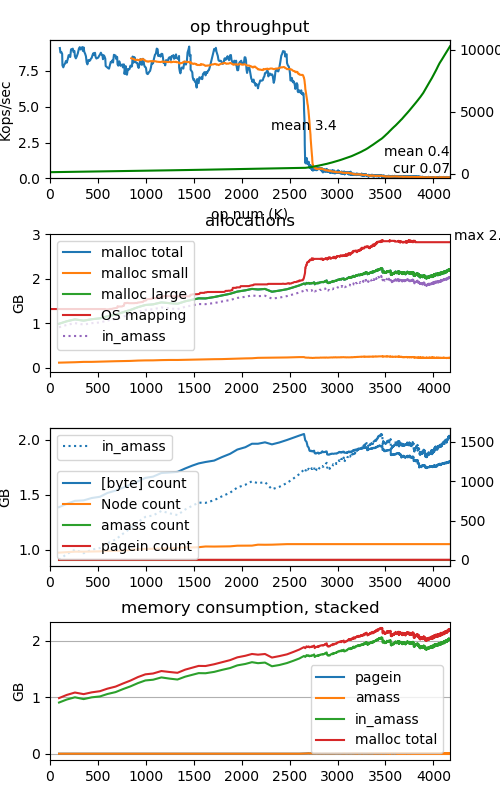
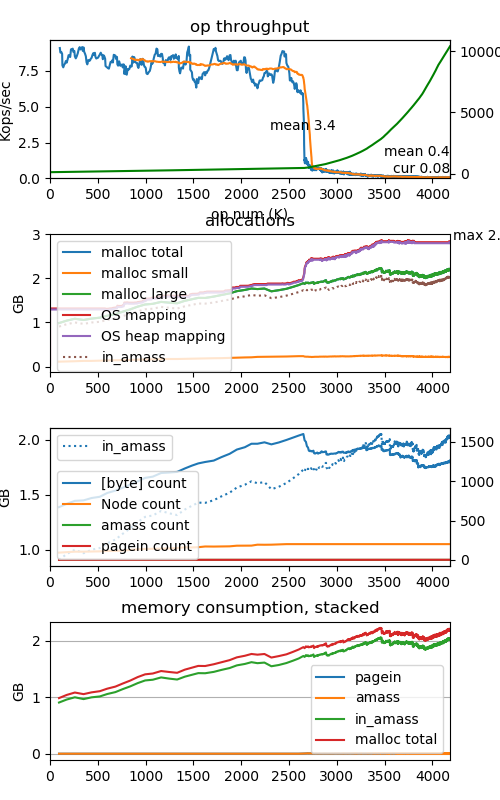
experiment results

diff --git a/malloc-exp/plot-timeseries.py b/malloc-exp/plot-timeseries.py
@@ -40,9 +40,14 @@ def parse(filename):
     microscopes = {}
     first_op_completed_t = None
     ops_completed = {}
+    reads_started = {}
+    reads_completed = {}
+    writes_started = {}
+    writes_completed = {}
     scopes = {}
     kvl_underlying = {}
     kvl_underlying_count = {}
+    accum = {}
     line_num = 0
     for line in open(filename, "r").readlines():
         line_num += 1
@@ -56,6 +61,12 @@ def parse(filename):
             if first_op_completed_t == None:
                 first_op_completed_t = t - 2
             ops_completed[t] = int(fields[4])
+
+        if line.startswith("iostats "):
+            reads_started[t] = int(fields[1])
+            reads_completed[t] = int(fields[3])
+            writes_started[t] = int(fields[5])
+            writes_completed[t] = int(fields[7])
 
         mo = match_arow_line("ma-scope", line)
         if mo:
@@ -76,9 +87,30 @@ def parse(filename):
             kvl_underlying_count[t] = int(fields[3])
             kvl_underlying[t] = int(fields[5])
 
-    numPlots = 4
-    fig, axes = plt.subplots(numPlots, 1, figsize=(5,numPlots*2))
+
+        mo = re.compile("cache: (\d+) (.*)-(bytes|count)").search(line)
+        if mo!=None:
+            value,type,unit = mo.groups()
+            accum_key = "%s-%s" % (type,unit)
+            if accum_key not in accum:
+                accum[accum_key] = {}
+            accum[accum_key][t] = int(value)
+
+    numPlots = 10
+    rows = int((numPlots+1)/2)
+    fig, axes = plt.subplots(rows, 2, figsize=(12,rows*2))
+    axes = axes.transpose().flatten()
     plt.subplots_adjust(left=0.10, right=0.90, hspace=0.4, top=0.95, bottom=0.05);
+
+    class AxisAllocator:
+        def __init__(self):
+            self.nextAxis = 0
+
+        def get(self):
+            ret = self.nextAxis
+            self.nextAxis += 1
+            return axes[ret]
+    axisAllocator = AxisAllocator()
 
     t_end = max(os_map_total.keys())
 
@@ -88,14 +120,17 @@ def parse(filename):
 
     def timeToOp(t):
         try:
-            return ops_completed[t]/Kilo
+            return ops_completed[t]
         except KeyError:
             return 0
 
-    def timesToOp(ts):
-        return [timeToOp(t) for t in ts]
+    def timeToKiloOp(t):
+        return timeToOp(t) / Kilo
 
-    op_end = timeToOp(t_end)
+    def timesToKiloOps(ts):
+        return [timeToKiloOp(t) for t in ts]
+
+    op_end = timeToKiloOp(t_end)
 
     def makePlot(xSource, lam):
         xs = []
@@ -103,11 +138,12 @@ def parse(filename):
         for t in xSource:
             try:
                 y = lam(t)
-                xs.append(t)
-                ys.append(y)
-            except KeyError:
-                pass
-        return timesToOp(xs),ys
+                if y != None:
+                    xs.append(t)
+                    ys.append(y)
+            except KeyError: pass
+            except IndexError: pass
+        return timesToKiloOps(xs),ys
 
 
     def smoothedThroughput(ax, window):
@@ -132,7 +168,7 @@ def parse(filename):
             msg = "mean %.1f" % aggregate
             if label == "end":
                 msg += "\ncur %.2f" % cur
-            ax.text(timeToOp(time), aggregate, msg, horizontalalignment="right")
+            ax.text(timeToKiloOp(time), aggregate, msg, horizontalalignment="right")
         aggregateAt(xs[-1], "end")
         aggregateAt(1000, "1000s")
         
@@ -142,7 +178,7 @@ def parse(filename):
         axtwin.plot(ops,ts, "g")
         axtwin.set_ylabel("time (s)")
 
-    try: plotThroughput(axes[0])
+    try: plotThroughput(axisAllocator.get())
     except: pass
 
     def plotOSvsMalloc(ax):
@@ -155,19 +191,21 @@ def parse(filename):
                 (microscopes["coarse-small"][t].open_byte + microscopes["coarse-large"][t].open_byte)/GB))
             line.set_label("malloc large")
         except:
-            #pass    # sorry, no microscopes
-            raise
+            pass    # sorry, no microscopes
         line, = ax.plot(*makePlot(os_map_total, lambda t: os_map_total[t]/GB))
         line.set_label("OS mapping")
+        line, = ax.plot(*makePlot(os_map_heap, lambda t: os_map_heap[t]/GB))
+        line.set_label("OS heap mapping")
 
         maxX, maxY = max(os_map_total.items(), key=operator.itemgetter(1))
-        ax.text(maxX, maxY/GB, "max %.1fGB" % (maxY/GB), horizontalalignment="right")
+        ax.text(timeToKiloOp(maxX), maxY/GB, "max %.1fGB" % (maxY/GB), horizontalalignment="right")
 
         ax.set_xlim(left = 0, right=op_end)
         ax.legend()
         ax.set_title("allocations")
         ax.set_ylabel("GB")
-    plotOSvsMalloc(axes[1])
+    osVsMallocAxis = axisAllocator.get()
+    plotOSvsMalloc(osVsMallocAxis)
 
     def plotAmass(ax):
         focus_bytearys = scopes["in_amass.[T = unsigned char]"]
@@ -176,7 +214,8 @@ def parse(filename):
         ax.set_ylabel("GB")
         ax.legend()
         ax.set_xlim(left = 0, right=op_end)
-    plotAmass(axes[1])
+    try: plotAmass(osVsMallocAxis)
+    except: pass
 
     def plotNodes(ax):
         a2twin = ax.twinx()
@@ -195,9 +234,10 @@ def parse(filename):
         line.set_label("pagein count")
         a2twin.legend(loc="lower left")
 
-    try: plotAmass(axes[2])
+    amassAxis = axes[2]
+    try: plotAmass(amassAxis)
     except: pass
-    try: plotNodes(axes[2])
+    try: plotNodes(amassAxis)
     except: pass
 
 ##    xs_ratio = [t for t in xs_bytearys if t in xs_nodes]
@@ -220,19 +260,104 @@ def parse(filename):
         for i in range(len(stack)):
             (item,label) = stack[i]
             ys = [(item[xs[i]].open_byte + prev[i]) for i in range(len(xs))]
-            line, = ax.plot(timesToOp(xs), [v/GB for v in ys])
+            line, = ax.plot(timesToKiloOps(xs), [v/GB for v in ys])
             line.set_label(label)
             prev = ys
             #prev = [0 for t in xs]
-        line, = ax.plot(timesToOp(xs), [microscopes["total"][t].open_byte/GB for t in xs])
+        line, = ax.plot(timesToKiloOps(xs), [microscopes["total"][t].open_byte/GB for t in xs])
         line.set_label("malloc total")
         ax.legend()
         ax.set_ylabel("GB")
         ax.set_title("memory consumption, stacked")
         ax.set_xlim(left = 0, right=op_end)
-        ax.grid(axis="y", both=True, b=True)
-    try: plotMemStackChart(axes[3])
+        ax.grid(axis="y", which="both", b=True)
+    try: plotMemStackChart(axisAllocator.get())
     except: pass
+
+    def plotIORate(completed, label, color, ax):
+        window = 20
+        def windowedIO(completed, t):
+            try:
+                op_t = timeToOp(t)
+                op_window = timeToOp(t - window)
+                if op_window >= op_t:
+                    return None
+                #print(t, started[t], completed[t-window], op_t, op_window)
+                return (completed[t] - completed[t-window])/(op_t - op_window)
+            except ZeroDivisionError:
+                return None
+        line, = ax.plot(*makePlot(completed, lambda t: windowedIO(completed, t)), color=color)
+        line.set_label(label)
+        ax.set_title("IOs per operation, %ss window" % window)
+        ax.legend()
+        #ax.set_ylim(top=0.15)
+        
+    ioRateAxis = axisAllocator.get()
+    try:
+        #axtwin = axes[4].twinx()
+        plotIORate(writes_completed, "writes", "b", ioRateAxis)
+        plotIORate(reads_completed, "reads", "r", ioRateAxis)
+    except: raise
+
+    def plotAccum(ax, accum_suite, divisor, ylabel):
+        for categ in accum_suite:
+            line, = ax.plot(*makePlot(accum[categ], lambda t: accum[categ][t]/divisor))
+            line.set_label(categ)
+        ax.set_title("internal accumulator")
+        ax.set_ylabel(ylabel)
+        ax.legend()
+
+    try:
+        plotAccum(axisAllocator.get(), ("tree-nodes-count", "tree-buckets-count", "pkv-buckets-count", "weird-buckets-count"), 1, "count")
+        plotAccum(axisAllocator.get(), ("bucket-message-count", "bucket-key-count", "pivot-key-count"), 1e6, "M")
+        bucketBytesAxis = axisAllocator.get()
+        plotAccum(bucketBytesAxis, ("bucket-message-bytes", "bucket-key-bytes", "pivot-key-bytes"), GB, "GB")
+        last_t = max(accum["bucket-message-bytes"].keys())
+        last_sum = sum([accum[c][last_t] for c in ["bucket-message-bytes", "bucket-key-bytes", "pivot-key-bytes"]])/GB
+        msg = "total: %.1fGB" % last_sum
+        bucketBytesAxis.text(timeToKiloOp(last_t), last_sum, msg, horizontalalignment="right")
+    except: raise
+
+    def plotPivotRate(ax):
+        nodeTimes = list(scopes[".NodeImpl_Compile::Node"].keys())
+        def nodeCountAt(t):
+            idx = bisect.bisect(nodeTimes, t)
+            t = nodeTimes[idx]
+            return scopes[".NodeImpl_Compile::Node"][t]
+        line, = ax.plot(*makePlot(accum["pivot-key-count"], lambda t: (accum["pivot-key-count"][t]+nodeCountAt(t).open_count)/nodeCountAt(t).open_count))
+        line.set_label("buckets/node")
+        ax.set_title("buckets per node")
+        ax.set_ylabel("buckets/node")
+        ax.yaxis.set_major_locator(matplotlib.ticker.MultipleLocator(1.0))
+        ax.yaxis.set_minor_locator(matplotlib.ticker.MultipleLocator(0.5))
+        ax.grid(axis="y", which="both", b=True)
+
+    try: plotPivotRate(axisAllocator.get())
+    except: pass
+
+    def plotMemViews(ax):
+        line, = ax.plot(*makePlot(os_map_total, lambda t: os_map_total[t]/GB))
+        line.set_label("OS mapping")
+
+        line, = ax.plot(*makePlot(microscopes["total"], lambda t: microscopes["total"][t].open_byte/GB))
+        line.set_label("malloc total")
+
+        line, = ax.plot(*makePlot(scopes["in_amass.[T = unsigned char]"], lambda t: scopes["in_amass.[T = unsigned char]"][t].open_byte/GB))
+        line.set_label("malloc in_amass")
+
+        line, = ax.plot(*makePlot(kvl_underlying, lambda t: kvl_underlying[t]/GB))
+        line.set_label("underlying")
+
+        line, = ax.plot(*makePlot(accum["bucket-message-bytes"], lambda t: accum["bucket-message-bytes"][t]/GB))
+        line.set_label("internal-bucket-message-bytes")
+
+        ax.set_title("all memory views in one place")
+        ax.set_ylabel("GB")
+        ax.legend()
+
+    try: plotMemViews(axisAllocator.get())
+    except: pass
+
 
 #    xs = [t for t in kvl_underlying]
 #    ys = [kvl_underlying[t]/GB for t in xs]
@@ -281,6 +406,7 @@ def parse(filename):
 #    axes[4].legend()
 #    axes[4].set_title("overheads")
 
+    plt.tight_layout()
     figname = "%s-timeseries.png" % filename
     plt.savefig(figname)
     #plt.show()
